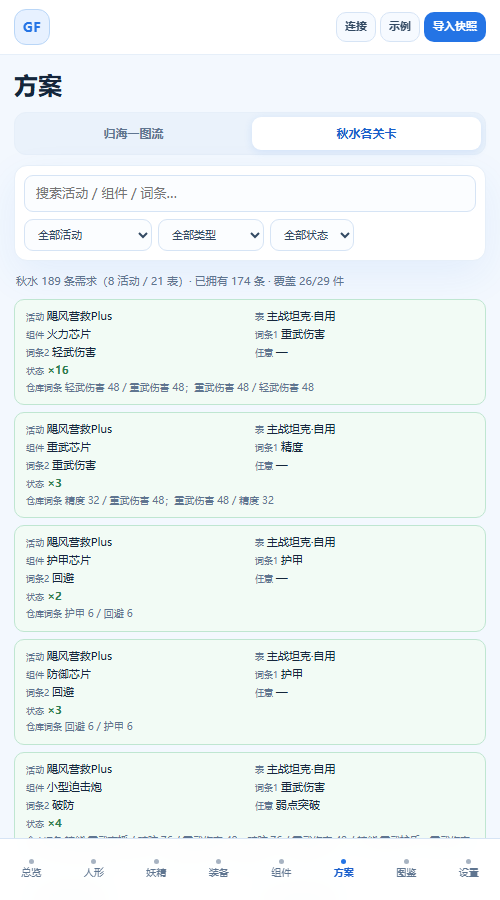
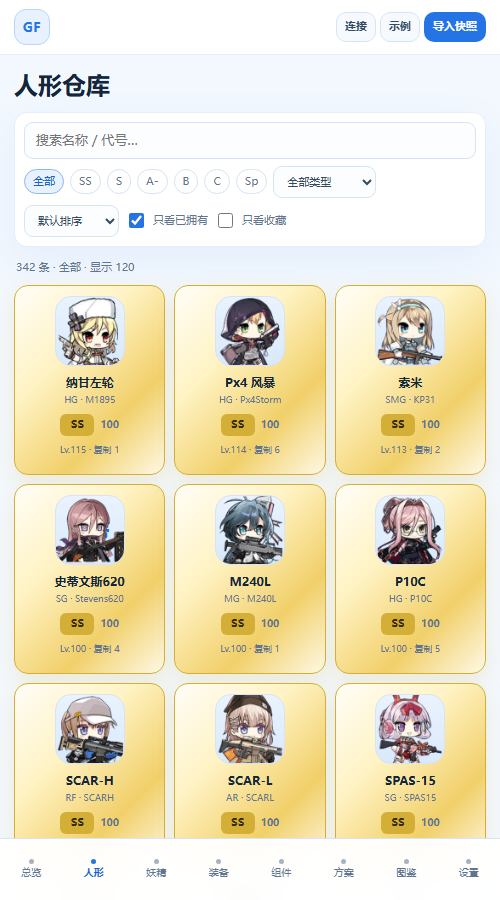
feat(web): gold/green/blue recommendation cards and tier scores
Android is now explicitly read-only and starts on the codex; remove the abandoned on-device VPN capture doc.

diff --git a/web/app.js b/web/app.js
@@ -225,41 +225,62 @@ function buildTierLookup() {
     const nameTier = new Map();
     const codeRecommend = new Map();
     const nameRecommend = new Map();
+    const codeFrame = new Map();
+    const nameFrame = new Map();
     for (const entry of raw.entries || []) {
       const tierId = entry.tier || raw.default_tier || 'C';
       if (!tierById.has(tierId)) continue;
       const names = [entry.name, ...(entry.aliases || [])].filter(Boolean);
       const recommend = entry.recommend ? String(entry.recommend).toLowerCase() : '';
+      const frame = entry.frame ? String(entry.frame) : '';
       for (const name of names) {
         const norm = normalize(name);
         if (norm) nameTier.set(norm, tierId);
         if (recommend) nameRecommend.set(norm, recommend);
+        if (frame) nameFrame.set(norm, frame);
         for (const item of (state.alias.get(norm) || [])) {
           if (item.kind === kind) {
             codeTier.set(item.code, tierId);
             if (recommend) codeRecommend.set(item.code, recommend);
+            if (frame) codeFrame.set(item.code, frame);
           }
         }
       }
       if (entry.code) {
         codeTier.set(entry.code, tierId);
         if (recommend) codeRecommend.set(entry.code, recommend);
+        if (frame) codeFrame.set(entry.code, frame);
       }
     }
     const fallback = tierById.get(raw.default_tier || 'C') || tierById.values().next().value;
     state.tierLookup[kind] = {
-      tierById, codeTier, nameTier, fallback, list: raw, codeRecommend, nameRecommend,
+      tierById, codeTier, nameTier, fallback, list: raw,
+      codeRecommend, nameRecommend, codeFrame, nameFrame,
     };
   }
 }
 
 const RECOMMEND_RANK = { gold: 5, green: 4, blue: 3, white: 2, gray: 1 };
 
-function recommendFor(kind, code, name = '') {
+function recommendLevel(kind, code, name = '') {
   const lookup = state.tierLookup[kind];
-  if (!lookup) return 0;
-  const value = lookup.codeRecommend.get(code) || lookup.nameRecommend.get(normalize(name)) || '';
-  return RECOMMEND_RANK[value] || 0;
+  if (!lookup) return 'gray';
+  const explicit = lookup.codeRecommend.get(code) || lookup.nameRecommend.get(normalize(name));
+  if (explicit) return explicit;
+  const tier = tierFor(kind, code, name);
+  if (!tier) return 'gray';
+  if (tier.id === 'SS') return 'gold';
+  if (tier.id === 'S') {
+    const frame = lookup.codeFrame.get(code) || lookup.nameFrame.get(normalize(name));
+    return frame === 'A-' ? 'blue' : 'green';
+  }
+  if (tier.id === 'A-' || tier.id === 'A') return 'blue';
+  if (tier.id === 'B') return 'white';
+  return 'gray';
+}
+
+function recommendFor(kind, code, name = '') {
+  return RECOMMEND_RANK[recommendLevel(kind, code, name)] || 0;
 }
 
 function findCodex(kind, code, name = '') {
@@ -941,6 +962,8 @@ function unitCardHTML(kind, key, item, unit) {
   const owned = Boolean(unit);
   const tier = unit ? unit.tier : tierFor(kind, item.code, item.name);
   const favorite = state.favorites.has(`${kind}:${item.code}`);
+  const recommend = recommendLevel(kind, item.code, item.name);
+  const score = Number(tier.score || 0);
   let subtitle = '';
   let footer = '未拥有 · 图鉴';
   if (kind === 'doll') {
@@ -953,12 +976,12 @@ function unitCardHTML(kind, key, item, unit) {
     subtitle = `融合势力 · ${item.code}`;
     if (owned) footer = `Lv.${unit.level} · 解析 ${unit.resolution_level}`;
   }
-  return `<article class="unit-card ${owned ? '' : 'unowned'}" data-action="unit" data-kind="${kind}" data-key="${key}" data-code="${esc(item.code)}">
+  return `<article class="unit-card frame-${recommend} ${owned ? '' : 'unowned'}" data-action="unit" data-kind="${kind}" data-key="${key}" data-code="${esc(item.code)}" data-recommend="${recommend}" title="推荐：${{ gold: '金', green: '绿', blue: '蓝', white: '白', gray: '灰' }[recommend]}">
     <button class="fav-btn ${favorite ? 'active' : ''}" type="button" data-action="favorite" data-kind="${kind}" data-key="${esc(key)}" data-code="${esc(item.code)}" aria-label="收藏" title="收藏">★</button>
     ${avatarMarkup(item, item.name)}
     <div class="unit-name" title="${esc(item.name)}">${esc(item.name)}</div>
     <div class="unit-sub">${esc(subtitle)}</div>
-    ${tierBadge(tier.id)}
+    <div class="unit-badge-row">${tierBadge(tier.id)}<span class="unit-score">${score.toFixed(0)}</span></div>
     <div class="unit-footer">${esc(footer)}</div>
   </article>`;
 }

diff --git a/web/styles.css b/web/styles.css
@@ -1,4 +1,4 @@
-:root {
+:root {
   --bg: #f3f8fe;
   --bg-soft: #ffffff;
   --panel: #ffffff;
@@ -295,7 +295,7 @@ button:focus-visible, input:focus-visible, select:focus-visible {
   cursor: pointer;
 }
 .unit-card:hover { transform: translateY(-3px); border-color: #b9d6f7; box-shadow: 0 14px 30px rgba(36,116,229,.10); }
-.unit-card.unowned { opacity: .62; background: #fbfdff; }
+.unit-card.unowned { opacity: .62; }
 .unit-avatar {
   position: relative;
   width: 82px; height: 82px; border-radius: 18px; overflow: hidden;
@@ -634,3 +634,41 @@ html, body { max-width: 100%; overflow-x: hidden; }
 .pair-qr { width: 132px; height: 132px; image-rendering: pixelated; border: 1px solid var(--border-soft); border-radius: 10px; background: #fff; }
 .pair-box .settings-note { word-break: break-all; }
 code { background: var(--panel-2); padding: 1px 5px; border-radius: 5px; }
+.tier-SS { background: #D4AF37; color: #3B2C00; }
+.tier-S { background: #2E9E6B; color: #fff; }
+.tier-Aminus, .tier-A { background: #2474E5; color: #fff; }
+.tier-B { background: #fff; color: #334A63; border: 1px solid #B7CADF; }
+.tier-C { background: #7C8896; color: #fff; }
+.tier-Sp { background: #6D5BD0; color: #fff; }
+.unit-card.unowned { opacity: .62; }
+.unit-card .tier-badge { margin-top: 0; }
+.unit-card.frame-gold {
+  background: linear-gradient(135deg, #FFFDF7 0%, #FFF3C4 35%, #F1D06A 70%, #FFF9E6 100%);
+  border-color: #D4AF37;
+  box-shadow: 0 8px 22px rgba(212,175,55,.18);
+}
+.unit-card.frame-gold:hover { border-color: #D4AF37; box-shadow: 0 14px 30px rgba(212,175,55,.28); }
+.unit-card.frame-green {
+  background: linear-gradient(135deg, #F8FFFA 0%, #DDF5E5 40%, #BFE8CC 75%, #F7FFFA 100%);
+  border-color: #5BB98B;
+  box-shadow: 0 8px 22px rgba(91,185,139,.13);
+}
+.unit-card.frame-green:hover { border-color: #5BB98B; box-shadow: 0 14px 30px rgba(91,185,139,.22); }
+.unit-card.frame-blue {
+  background: linear-gradient(135deg, #F8FCFF 0%, #DCEBFF 40%, #B9D6FF 75%, #F6FBFF 100%);
+  border-color: #5B9BD5;
+  box-shadow: 0 8px 22px rgba(91,155,213,.13);
+}
+.unit-card.frame-blue:hover { border-color: #5B9BD5; box-shadow: 0 14px 30px rgba(91,155,213,.22); }
+.unit-card.frame-white {
+  background: linear-gradient(135deg, #FFFFFF 0%, #EDF5FF 40%, #DCEAFA 75%, #F7FBFF 100%);
+  border-color: #B7CADF;
+}
+.unit-card.frame-white:hover { border-color: #B7CADF; }
+.unit-card.frame-gray {
+  background: linear-gradient(135deg, #F4F6F8 0%, #E2E7EC 40%, #CFD7E0 75%, #EEF1F4 100%);
+  border-color: #8D99A6;
+}
+.unit-card.frame-gray:hover { border-color: #8D99A6; }
+.unit-badge-row { display: flex; align-items: center; justify-content: center; gap: 6px; margin-top: 8px; }
+.unit-score { color: var(--muted); font-size: 10px; font-weight: 700; font-variant-numeric: tabular-nums; }

diff --git a/android/app/src/main/java/com/gfforge/accounteval/MainActivity.kt b/android/app/src/main/java/com/gfforge/accounteval/MainActivity.kt
@@ -63,7 +63,7 @@ class MainActivity : AppCompatActivity() {
             }
         })
 
-        webView.loadUrl("https://appassets.androidplatform.net/assets/www/index.html")
+        webView.loadUrl("https://appassets.androidplatform.net/assets/www/index.html?tab=codex")
     }
 
     override fun onDestroy() {

diff --git a/README.md b/README.md
@@ -327,16 +327,19 @@ python tools\android_proxy_capture.py --from-index snapshots\index_xxx.json
 
 - 头像、图鉴、榜单、装备、归海 / 秋水组件表全部内置，运行时只需要**账号登录后的快照 JSON**。
 - `web/serve.py` 提供 `/api/latest`：自动读取 `snapshots/account_*.json`，并合并同 UID 的 `index_*.json` 组件数据；PWA 在 PC 同源环境会自动尝试。
-- 手机/电脑配合：电脑（或 PC 上的模拟器）负责登录抓包，手机 PWA 只读；`--host 0.0.0.0` 后设置页会显示「手机配对」二维码，手机扫码即载入 `/api/latest`。非 root 真机受 CA / pinning 限制，无法让 PC 代理解密，详见 [`docs/android_vpn_capture.md`](docs/android_vpn_capture.md)。
+- 手机/电脑配合：电脑（模拟器 / root 设备）负责抓取，手机 PWA 只读；`--host 0.0.0.0` 后设置页会显示「手机配对」二维码，手机扫码即载入 `/api/latest`。手机端不抓包、不代理。
 - PWA 支持文件导入、URL 连接（`?snapshot=`）、离线缓存；`data/core.json` 是 Service Worker 预缓存清单。
 - 单位页支持排序（综合 / 萌新 / 编号 / 星级）、收藏 + 只看收藏；装备页支持按活动切换；设置页支持评分 / 收藏 / 快照导入导出。
 - `tools/build_web.py` 生成 `web/data` 与头像副本；`tools/export_web_snapshot.py` 导出合并快照；`tools/build_android_assets.py` 生成 APK 资源。
 - 与 Qt 端的功能对照见 [`docs/webui_parity.md`](docs/webui_parity.md)；详细说明见 [`web/README.md`](web/README.md) 与 [`android/README.md`](android/README.md)。
-- 「纯 VPN 抓包」的可行性与限制见 [`docs/android_vpn_capture.md`](docs/android_vpn_capture.md)：VPN 只改道，TLS 信任 / 证书固定 / `gf_authcode` 才是难点。
 
 | WebUI 总览 | PWA 组件 |
 |---|---|
 | ![WebUI 总览](docs/screenshots/pwa_dashboard.png) | ![PWA 组件](docs/screenshots/pwa_components.png) |
+
+| 人形仓库（金/绿/蓝卡 + 评分） |
+|---|
+| ![PWA 人形](docs/screenshots/pwa_dolls.png) |
 
 | PWA 方案（秋水各关卡） |
 |---|
@@ -434,7 +437,7 @@ E:\python\gf_forge\.sim\Scripts\python.exe tools\extract_sf_static_avatars.py ^
 - **榜单是主观的**：人形档位来自表格作者，融合势力 A- / A / B / C 是按图内层级与配队图归并的；本项目只做落库和评分，不代表官方。
 - **装备「低穿 / 高穿」是社区口径**：本版把「高穿」明确为 **500 穿甲值**，当前对应 **第三方穿甲弹**（唯一 500 穿装备）；装备页「调整对应规则」可分三个区（配件 / 子弹 / 人形）编辑 match JSON 与目标数量，也支持导入 / 导出规则 JSON，保存到本地 `equipment_rules.local.json` 并立即重算。
 - **机动装甲组件**：「组件」页显示账号实际持有的组件（名字 / 词条 / `×N`），按通用组件 / 其他组件分栏；归海按 183 条完整词条组合逐条校验，秋水按 21 张积分关卡表逐条校验，行尾标注「归N 秋M」命中条数。「方案」页分两个标签：归海列 183 条组合，秋水列 8 个活动 / 21 张表 / 189 条需求，都按仓库标记已拥有 / 缺失并支持筛选。秋水表按活动分散在腾讯文档的「主战坦克 / 战术人型机甲」页，每张表 9 件；旧版图1 总表作为参考单独保留。
-- **安卓纯 VPN 抓包**：VPN 只能改道，不能绕过 TLS 信任 / 证书固定；非 root 真机基本读不到 `Index/index`。本机 APK 审计：台服 `tw.txwy.and.snqx` 未发现 CertificatePinner，root/模拟器 + 系统 CA 可 MITM；国服复活版 `com.sunborn.girlsfrontline.pt` 带 OkHttp + 21 个 `sha1/` 固定值，需 Frida 绕过或走客户端本地 HTTP 桥。详见 `docs/android_vpn_capture.md`。
+- **安卓端只读**：APK / PWA 只读取已有 JSON / 内置图鉴，不抓包、不代理、不登录游戏；账号快照由 PC 端生成后导入或连接。
 - **账号隐私**：快照包含 UID、昵称、仓库；默认只写本地 `snapshots/`，请不要把快照公开上传。
 
 ## 致谢

diff --git a/web/README.md b/web/README.md
@@ -65,19 +65,10 @@ API：
 - `GET /api/pair`：手机配对 URL
 - `GET /api/qr`：配对 URL 的二维码 PNG
 
-## 手机登录 + 电脑抓取 + 手机读取
+## 手机端只读
 
-可以，但要先区分「手机」是什么：
-
-| 手机形态 | 手机登录 | 电脑抓取 | 说明 |
-|---|---|---|---|
-| PC 上的安卓模拟器（MuMu / LDPlayer） | ✅ 在模拟器里登录 | ✅ 一键代理 / 系统 CA | **最推荐**，当前 Qt 端一键抓包就是这条路 |
-| root 真机 + USB adb | ✅ | ✅ adb root + 系统 CA + 代理 | 需要 root；Frida 也可 |
-| 非 root 真机（台服） | ✅ | ❌ 用户 CA 不被 targetSdk 34 信任 | 没有 pinning，但 CA 这关过不去 |
-| 非 root 真机（国服复活版） | ✅ | ❌ 有 OkHttp pinning | 除非 Frida 绕过或走本地 HTTP 桥 |
-
-所以「手机负责登录、电脑负责抓取」的最佳落地是：**在 PC 上跑安卓模拟器，游戏在模拟器里登录，电脑抓包**；
-抓完得到 `account_*.json` + `index_*.json`，手机只负责看。
+安卓端只做**只读查看器**：读取已有 JSON / 内置图鉴，不抓包、不代理、不登录游戏。
+账号快照仍由 PC 端（模拟器 / root 设备 / Frida）生成；手机只负责看。
 
 ### 电脑抓完，手机怎么读
 
@@ -91,7 +82,6 @@ API：
 3. **USB / localhost**：`adb reverse tcp:8770 tcp:8770`，手机 Chrome 打开 `http://localhost:8770/` 后可安装 PWA。
 
 > 局域网 HTTP 只能浏览，不能完整安装 PWA；要安装用 localhost 或 APK。
-> 二维码只是把「带 `?snapshot=/api/latest` 的页面」发给手机，不改变抓包仍由 PC 完成的事实。
 
 ## Android PWA（推荐先试）
 
@@ -142,7 +132,7 @@ android/                 # WebView 套壳工程
 ## 限制
 
 - PWA 不能直接读取游戏进程或 Android 私有目录；快照必须由 PC 端抓取/导出。
-- 不要指望“开一个 VPN 就能抓账号”：VPN 只改道，TLS 信任 / 证书固定 / 游戏封包解密都在后面，非 root 真机基本走不通。详见 [`../docs/android_vpn_capture.md`](../docs/android_vpn_capture.md)。
+- 手机端不做抓包/VPN，只读已有 JSON；抓包在 PC 端完成。
 - 快照包含 UID / 昵称 / 仓库，请勿公开分享。
 - 组件数据依赖 `index_*.json`；只导入 `account_*.json` 时「组件 / 方案」会提示缺少组件。
 - 秋水的 2 个活动文档（坠入兔洞Plus、混沌落幕Plus）当前需要登录，未收录；其余 6 个活动没有组件页。

diff --git a/docs/webui_parity.md b/docs/webui_parity.md
@@ -5,7 +5,7 @@
 | 模块 | Qt 桌面端 | WebUI / PWA | 状态 |
 |---|---|---|---|
 | 总览 | 四维评分、评级、雷达、短板建议、装备缺口 | 同左 | ✅ |
-| 人形 / 妖精 / 融合 | 多档位 chip、类型、搜索、只看已拥有/未拥有、综合/萌新/编号/星级排序、收藏、逐条复制详情、妖精按品质分组 | 多档位 chip、类型、搜索、只看已拥有、只看收藏、综合/萌新/编号/星级排序、收藏、逐条复制详情、妖精品质分组 | ✅（未拥有用「图鉴」页看） |
+| 人形 / 妖精 / 融合 | 多档位 chip、类型、搜索、只看已拥有/未拥有、综合/萌新/编号/星级排序、收藏、逐条复制详情、妖精按品质分组 | 多档位 chip、类型、搜索、只看已拥有、只看收藏、综合/萌新/编号/星级排序、收藏、逐条复制详情、妖精品质分组、**金/绿/蓝/白/灰卡面 + 档位评分** | ✅（未拥有用「图鉴」页看） |
 | 装备 | 全量/逐活动评价、三分类权重、目标 vs 当前、规则编辑器 | 全量/逐活动评价、三分类权重、目标 vs 当前 | ◐ 规则编辑器未做 |
 | 组件 | 方案筛选、金/绿/灰、归海/秋水命中、分页 | 方案筛选、金/绿/灰、归N/秋M、搜索、加载更多 | ✅ |
 | 方案 | 归海 183 条 / 秋水 21 表逐条缺口 | 两个标签页，活动/类型/状态/搜索 | ✅ |

diff --git a/android/README.md b/android/README.md
@@ -36,11 +36,10 @@ python tools\build_android_assets.py
   `http://<PC IP>:8770/api/latest`（需要同一 Wi-Fi；`usesCleartextTraffic` 已开启）。
 - App 不会保存游戏账号密码；快照包含 UID / 昵称，请勿公开分享。
 
-## 为什么不做「纯 VPN 抓包」
+## 只读设计
 
-VPN 只能把流量改道，不能绕过 Android 的 CA 信任、游戏证书固定和 `gf_authcode` 封包；
-非 root 真机基本读不到 `Index/index`。可行路径与取舍见
-[`../docs/android_vpn_capture.md`](../docs/android_vpn_capture.md)。
+安卓端只做**只读查看器**：读取已有 JSON / 内置图鉴，不抓包、不代理、不登录游戏。
+启动默认进入「图鉴」（固定数据）；账号快照由 PC 端生成后，通过「导入快照」/「连接」载入。
 
 ## 与 PWA 的关系
 
